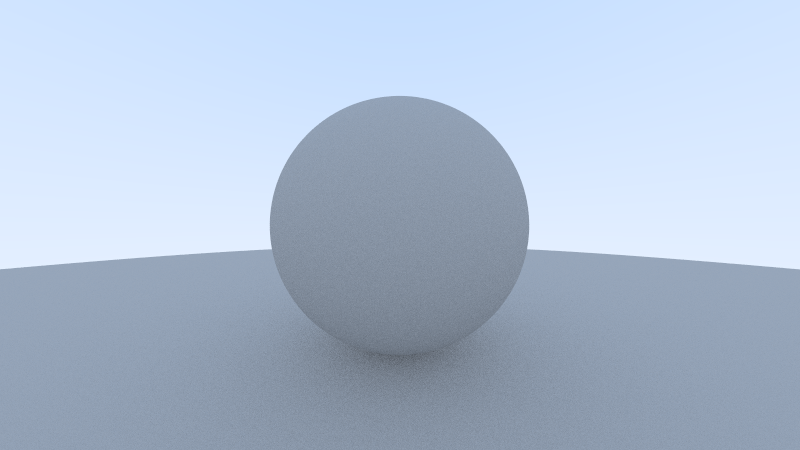
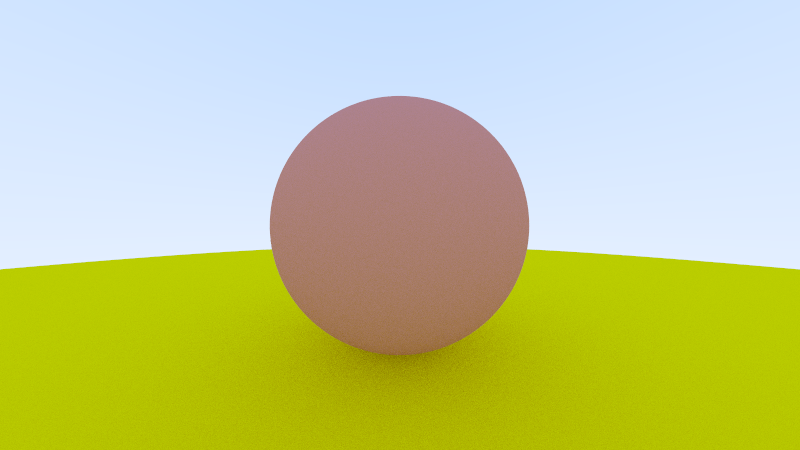
Refine the Material trait to support metals

diff --git a/src/materials/diffuse.rs b/src/materials/diffuse.rs
@@ -26,48 +26,50 @@ fn rand_point_on_sphere(origin: &Point3, radius: f32) -> Point3 {
 /// A lambertian diffuse material.
 #[derive(Debug, Clone, Copy)]
 pub struct Lambertian {
-    pub absorption: f32,
+    attenuation: Pixel,
+}
+
+impl Lambertian {
+    /// Construct a colored diffuse material with lambertian reflection.
+    pub fn new(r: f32, g: f32, b: f32) -> Lambertian {
+        Lambertian {
+            attenuation: Pixel { r, g, b },
+        }
+    }
 }
 
 impl Material for Lambertian {
-    fn reflect_at(&self, _ray: &Ray, intersection: &Intersection) -> Ray {
+    fn scatter_at(&self, _ray: &Ray, intersection: &Intersection) -> (Ray, Pixel) {
         let origin = intersection.point();
         let center = origin + intersection.normal();
         let direction = rand_point_on_sphere(&center, 1.0) - origin;
-        Ray::new(origin, direction)
-    }
-
-    fn absorb(&self, pixel: &Pixel) -> Pixel {
-        Pixel {
-            r: self.absorption * pixel.r,
-            g: self.absorption * pixel.g,
-            b: self.absorption * pixel.b,
-        }
+        (Ray::new(origin, direction), self.attenuation)
     }
 }
 
 /// A hemispherical diffuse material.
 #[derive(Debug, Clone, Copy)]
 pub struct Hemispherical {
-    pub absorption: f32,
+    attenuation: Pixel,
+}
+
+impl Hemispherical {
+    /// Construct a colored diffuse material with hemispherical reflection.
+    pub fn new(r: f32, g: f32, b: f32) -> Hemispherical {
+        Hemispherical {
+            attenuation: Pixel { r, g, b },
+        }
+    }
 }
 
 impl Material for Hemispherical {
-    fn reflect_at(&self, _ray: &Ray, intersection: &Intersection) -> Ray {
+    fn scatter_at(&self, _ray: &Ray, intersection: &Intersection) -> (Ray, Pixel) {
         let origin = intersection.point();
         let direction = rand_point_on_sphere(&origin, 1.0) - origin;
         if direction.dot(intersection.normal()) > 0.0 {
-            Ray::new(origin, direction)
+            (Ray::new(origin, direction), self.attenuation)
         } else {
-            Ray::new(origin, -direction)
-        }
-    }
-
-    fn absorb(&self, pixel: &Pixel) -> Pixel {
-        Pixel {
-            r: self.absorption * pixel.r,
-            g: self.absorption * pixel.g,
-            b: self.absorption * pixel.b,
+            (Ray::new(origin, -direction), self.attenuation)
         }
     }
 }
@@ -93,8 +95,8 @@ mod test {
                 ..Vect3::zero()
             },
         );
-        let lambertian = Lambertian { absorption: 1.0 };
-        let reflection = lambertian.reflect_at(&ray, &intersection);
+        let lambertian = Lambertian::new(1.0, 1.0, 1.0);
+        let (reflection, _) = lambertian.scatter_at(&ray, &intersection);
 
         assert_eq!(reflection.origin(), intersection.point());
         assert!(reflection.direction().dot(intersection.normal()) > 0.0);
@@ -116,8 +118,8 @@ mod test {
                 ..Vect3::zero()
             },
         );
-        let hemispherical = Hemispherical { absorption: 1.0 };
-        let reflection = hemispherical.reflect_at(&ray, &intersection);
+        let hemispherical = Hemispherical::new(1.0, 1.0, 1.0);
+        let (reflection, _) = hemispherical.scatter_at(&ray, &intersection);
 
         assert_eq!(reflection.origin(), intersection.point());
         assert!(reflection.direction().dot(intersection.normal()) > 0.0);

diff --git a/src/scene.rs b/src/scene.rs
@@ -65,8 +65,13 @@ impl Scene {
         }
         if let Some((intersection, material)) = ray.intersects(self, 0.001..f32::INFINITY) {
             // We have an intersection! Recurse, then absorb part of the color.
-            let reflected = material.reflect_at(ray, &intersection);
-            material.absorb(&self.render_ray(&reflected, depth - 1))
+            let (reflected, attenuation) = material.scatter_at(ray, &intersection);
+            let rendered = self.render_ray(&reflected, depth - 1);
+            image::Pixel {
+                r: rendered.r * attenuation.r,
+                g: rendered.g * attenuation.g,
+                b: rendered.b * attenuation.b,
+            }
         } else {
             // Fall-back: fancy blue-ish gradient
             let t = 0.5 * (ray.direction().y + 1.0);
@@ -87,7 +92,7 @@ mod test {
 
     #[test]
     fn test_intersection_filter() {
-        let material = Lambertian { absorption: 1.0 };
+        let material = Lambertian::new(1.0, 1.0, 1.0);
         let sphere = Sphere {
             center: Point3 {
                 z: 2.0,
@@ -116,7 +121,7 @@ mod test {
 
     #[test]
     fn test_multiple_objects() {
-        let material = Lambertian { absorption: 1.0 };
+        let material = Lambertian::new(1.0, 1.0, 1.0);
         let sphere_a = Sphere {
             center: Point3 {
                 z: 2.0,

diff --git a/src/lib.rs b/src/lib.rs
@@ -25,7 +25,7 @@ pub fn get_scene() -> Scene {
             },
             radius: 0.5,
         }),
-        material: Box::new(Lambertian { absorption: 0.5 }),
+        material: Box::new(Lambertian::new(0.7, 0.3, 0.3)),
     };
     let ground = Object {
         surface: Box::new(Sphere {
@@ -36,7 +36,7 @@ pub fn get_scene() -> Scene {
             },
             radius: 100.0,
         }),
-        material: Box::new(Hemispherical { absorption: 0.5 }),
+        material: Box::new(Hemispherical::new(0.8, 0.8, 0.0)),
     };
     Scene {
         objects: vec![sphere, ground],

diff --git a/src/materials/mod.rs b/src/materials/mod.rs
@@ -17,12 +17,5 @@ pub trait Material {
     ///
     /// * `ray` - ray to reflect
     /// * `intersection` - intersection to reflect at
-    fn reflect_at(&self, ray: &Ray, intersection: &Intersection) -> Ray;
-
-    /// Absorb colors of a pixel.
-    ///
-    /// # Arguments
-    ///
-    /// * `pixel` - pixel to absorb color from
-    fn absorb(&self, pixel: &Pixel) -> Pixel;
+    fn scatter_at(&self, ray: &Ray, intersection: &Intersection) -> (Ray, Pixel);
 }
